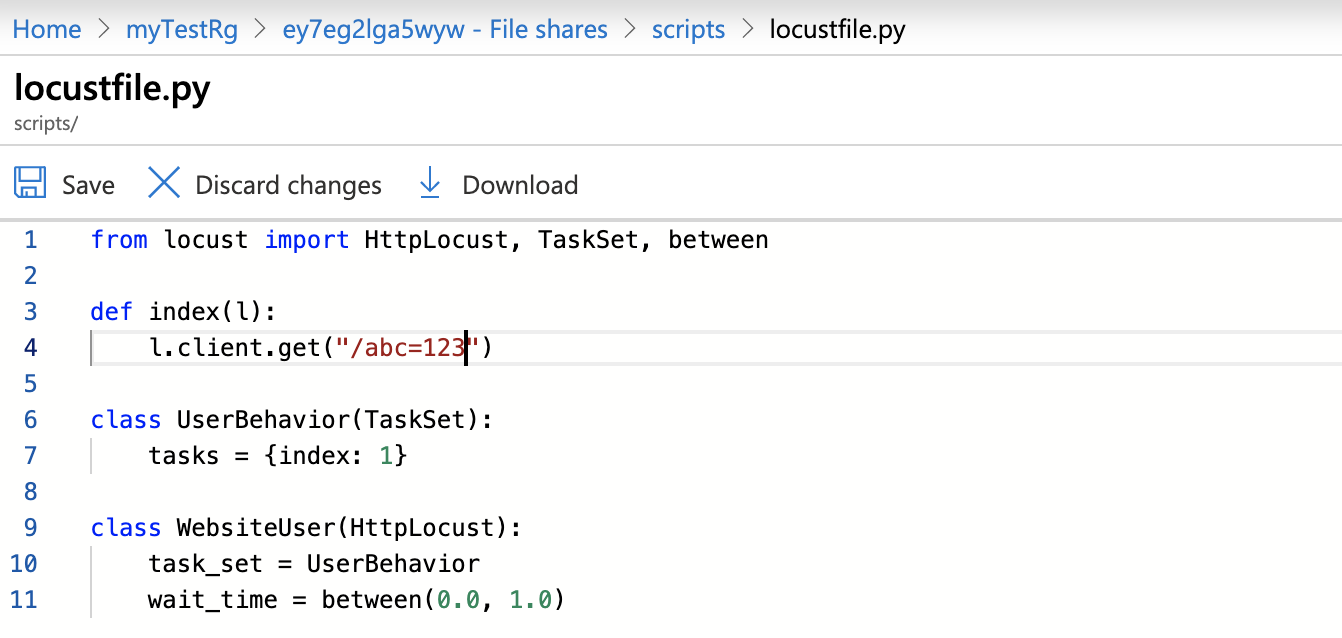
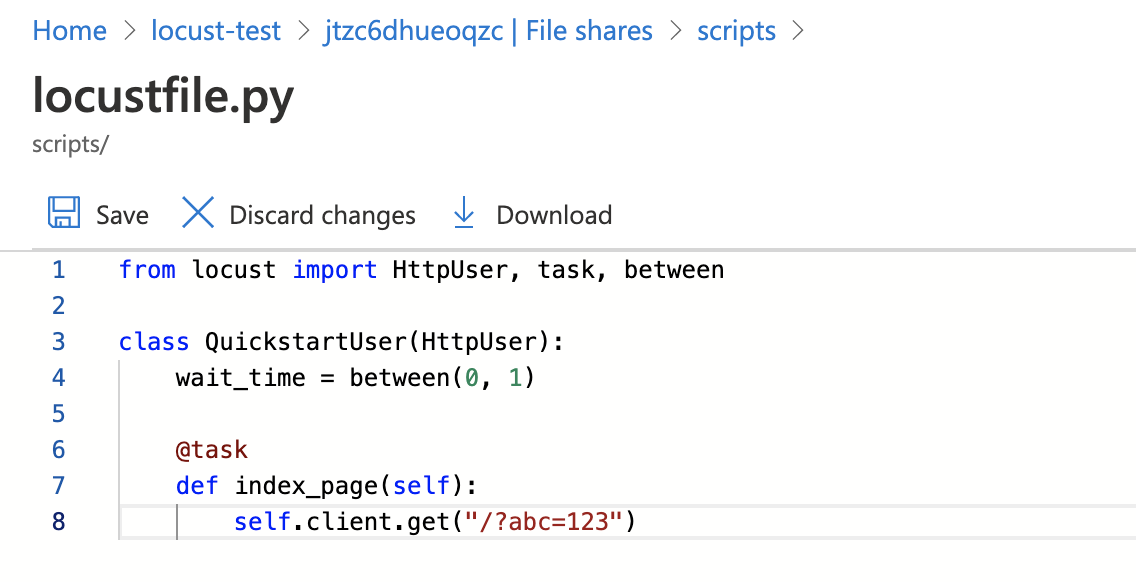
Upgrade to latest Locust version and images

diff --git a/locustfile.py b/locustfile.py
@@ -1,11 +1,8 @@
-from locust import HttpLocust, TaskSet, between
+from locust import HttpUser, task, between
 
-def index(l):
-    l.client.get("/")
+class QuickstartUser(HttpUser):
+    wait_time = between(0, 1)
 
-class UserBehavior(TaskSet):
-    tasks = {index: 1}
-
-class WebsiteUser(HttpLocust):
-    task_set = UserBehavior
-    wait_time = between(0.0, 1.0)
+    @task
+    def index_page(self):
+        self.client.get("/")
